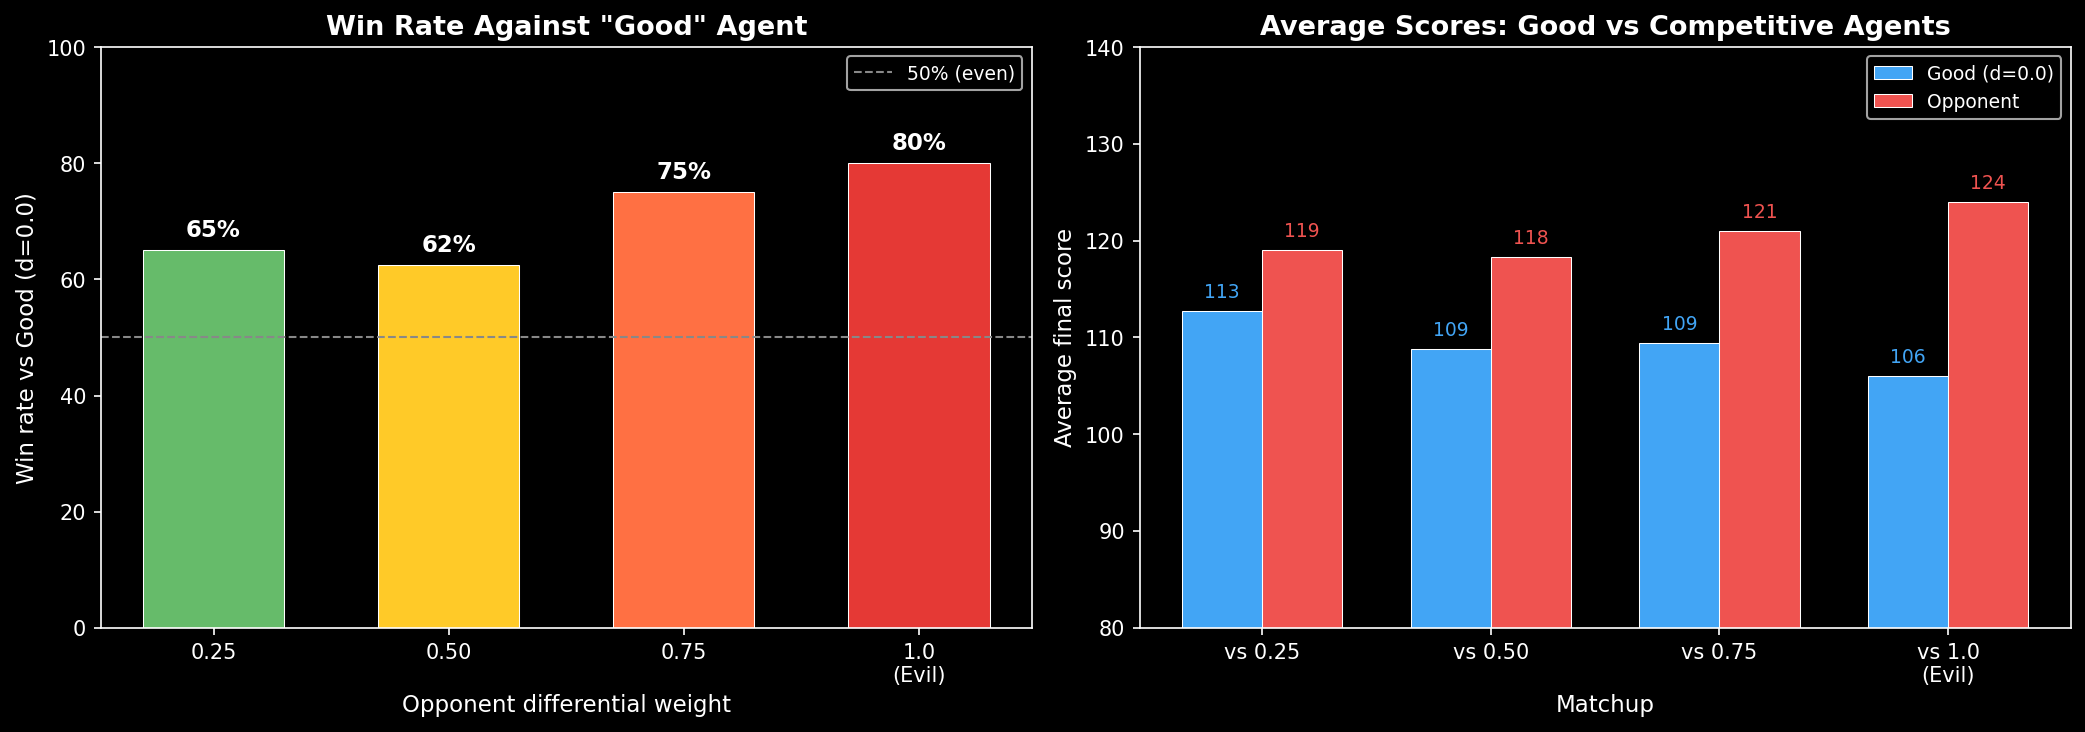
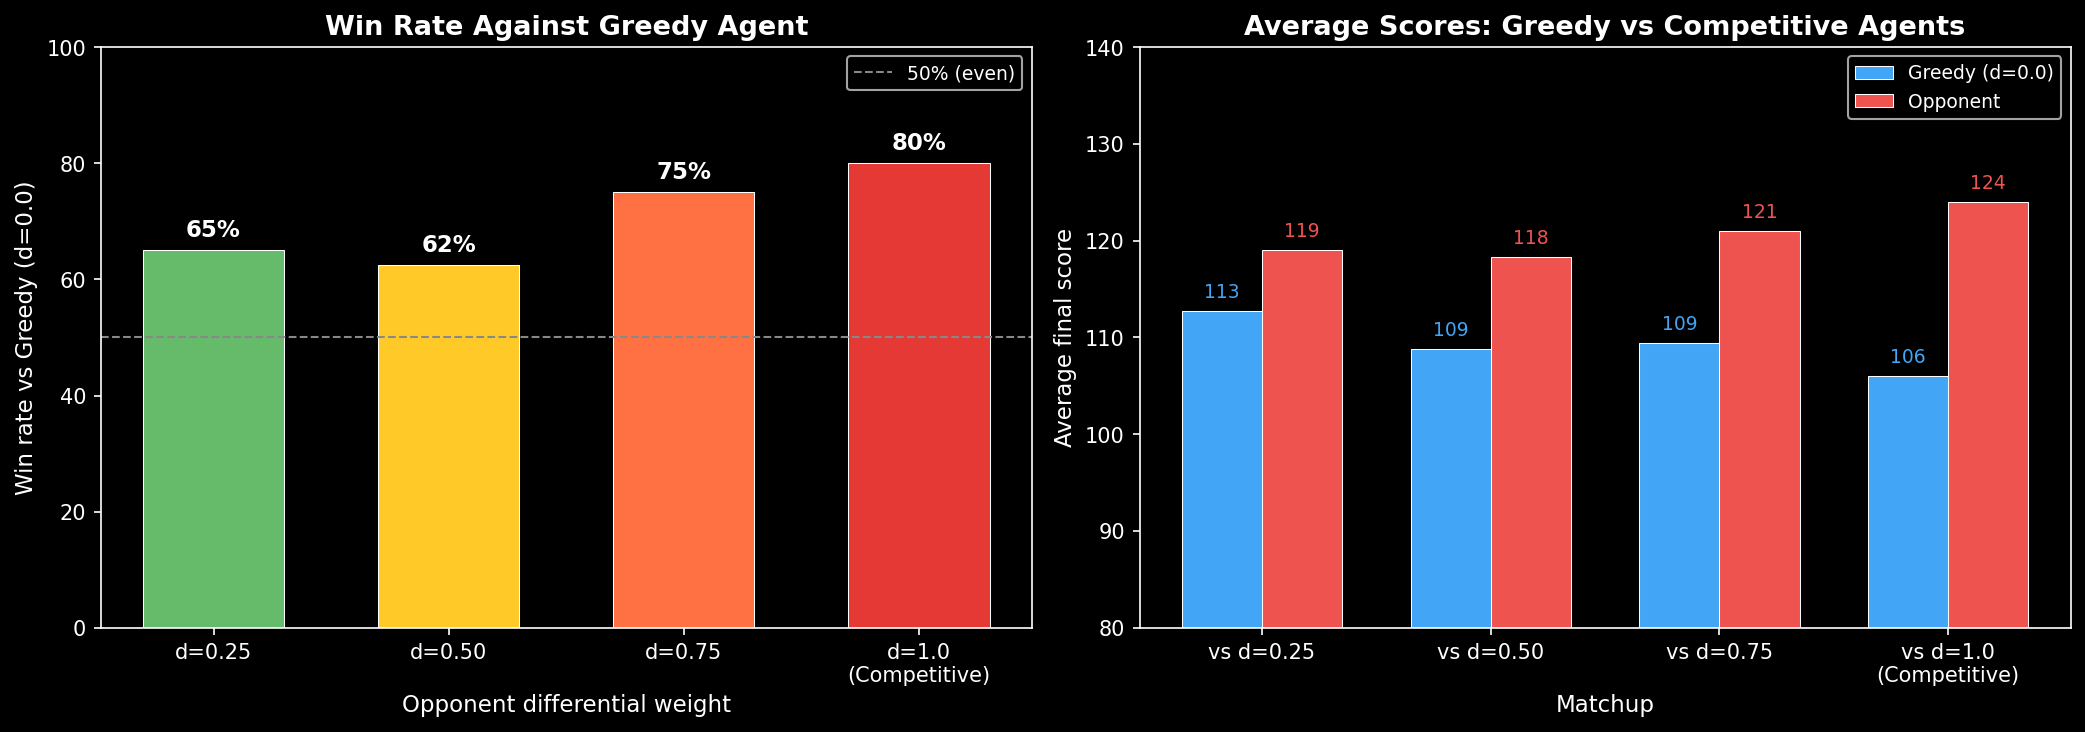
Rename Good/Evil to Greedy/Competitive in evaluator comparison

diff --git a/README.md b/README.md
@@ -15,13 +15,13 @@ The engine is designed for AI and reinforcement learning workloads where million
 
 The immutable `GameState` design means branching during tree search requires no deep copy — just reference the previous state. This makes the engine particularly efficient for MCTS, AlphaZero-style self-play, and other search-based RL agents that require fast environment rollouts.
 
-### Good vs Evil: evaluation strategy comparison
+### Greedy vs Competitive: evaluation strategy comparison
 
-The evaluator supports a `differentialWeight` parameter that blends between maximizing own score (d=0.0, "Good") and maximizing score difference (d=1.0, "Evil"). Head-to-head results over 40 games per matchup:
+The evaluator supports a `differentialWeight` parameter that blends between maximizing own score (d=0.0, "Greedy") and maximizing score difference (d=1.0, "Competitive"). Head-to-head results over 40 games per matchup:
 
 ![Evaluator comparison](evaluator-comparison.png)
 
-Competitive agents that account for the opponent's score consistently beat the pure point-maximizer — both in win rate (up to 80%) and in raw score. Playing to *win* outperforms playing to *score*.
+Competitive agents that account for the opponent's score consistently beat the greedy point-maximizer — both in win rate (up to 80%) and in raw score. Playing to *win* outperforms playing to *score*.
 
 ## Architecture
 
